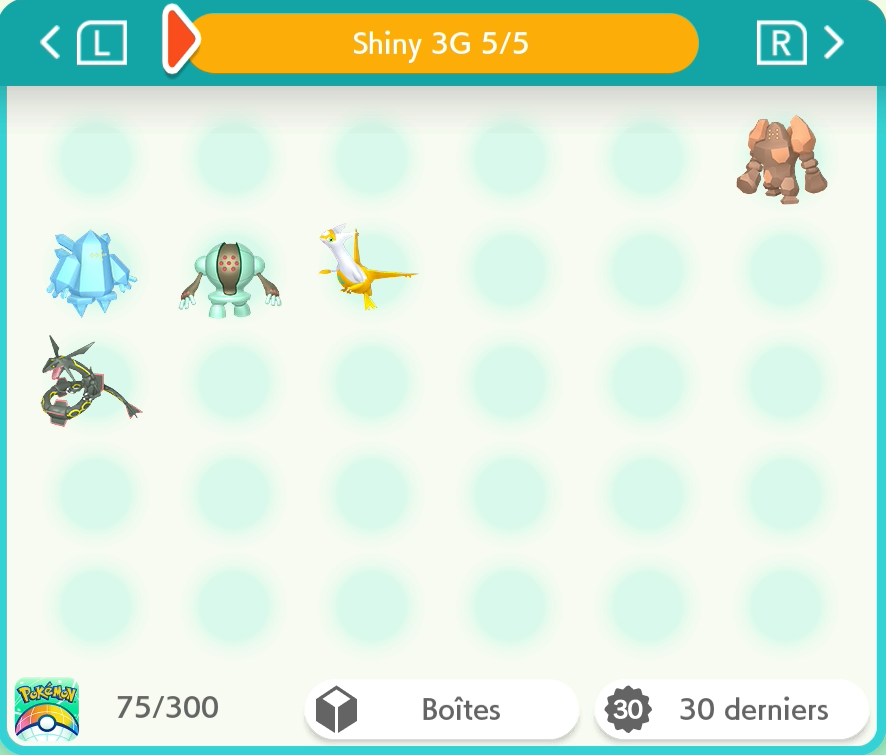
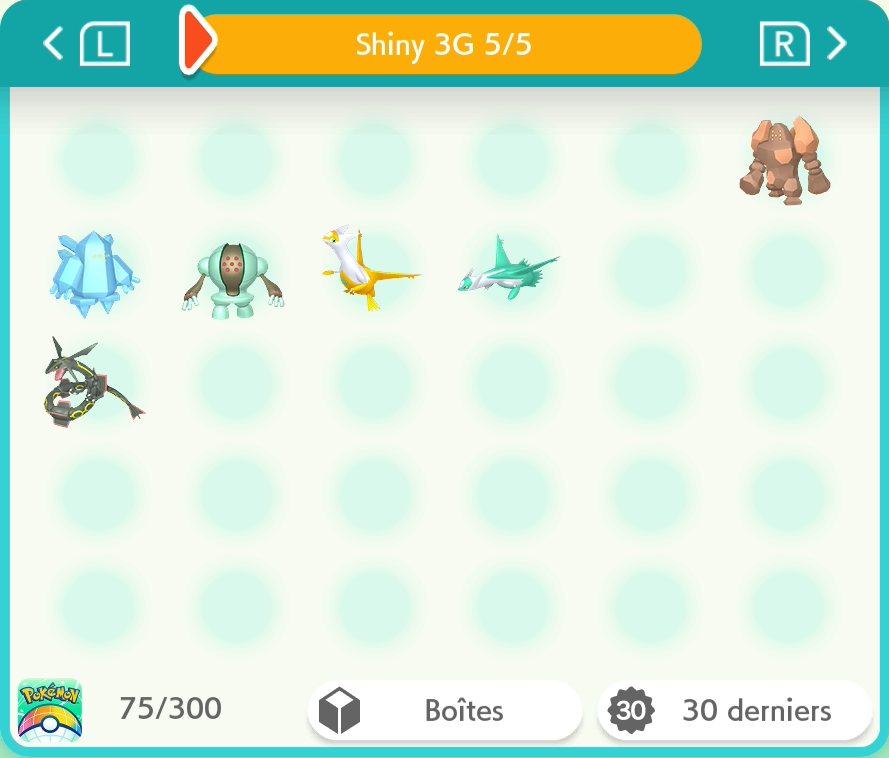
3G : Latios

diff --git a/README.md b/README.md
@@ -2,20 +2,20 @@
 
 Pokémon-Elément-Sh -> <a href="https://www.pokemon-element-sh.fr/profil/karyno21" target="_blank">Karyno21</a>
 
-↓ Dernière Update le 14/10/2026 à 4h49 ↓
-### Dex 1-9G [293/1001] +32
+↓ Dernière Update le 14/10/2026 à 15h57 ↓
+### Dex 1-9G [294/1001] +33
 
 | Gen | Prog | Notes |
 |:--:|:--:|---|
-|1G|48/151|+4 Artikodin, Électhor, Sulfura & Ptéra|
-|2G|38/100|+6 Celebi, Raikou, Entei, Suicune, Lugia & Ho-Oh|
-|3G|26/135|+4 Spinda, Regirock, Regice, Registeel & Latias|
+|1G|48/151|+4 : Artikodin, Électhor, Sulfura & Ptéra|
+|2G|38/100|+6 : Celebi, Raikou, Entei, Suicune, Lugia & Ho-Oh|
+|3G|27/135|+5 : Spinda, Regirock, Regice, Registeel, Latias & Latios|
 |4G|20/107||
-|5G|31/155|+3 Genesect (JP Event), Venipatte & Scobolide|
-|6G|30/71|+8 Amagara, Dragmara, Ptyranidur, Volcanion (HOME), Diancie (JP Event), Lépidonille, Pérégrain & Prismillon (Fantaisie)|
-|7G|20/84|+4 Type:0, Silvallié, Mandrillon & Sovkipou|
-|8G|34/90|+1 Crèmy|
-|9G|46/108|+1 Amassel|
+|5G|31/155|+3 : Genesect (JP Event), Venipatte & Scobolide|
+|6G|30/71|+8 : Amagara, Dragmara, Ptyranidur, Volcanion (HOME), Diancie (JP Event), Lépidonille, Pérégrain & Prismillon (Fantaisie)|
+|7G|20/84|+4 : Type:0, Silvallié, Mandrillon & Sovkipou|
+|8G|34/90|+1 : Crèmy|
+|9G|46/108|+1 : Amassel|
 
 ### Formes Régionales [58/58]
 
@@ -26,7 +26,7 @@ Pokémon-Elément-Sh -> <a href="https://www.pokemon-element-sh.fr/profil/karyno
 |Hisui|17/17|Complété|
 |Paldea|4/4|Complété|
 
-### Total [351/1059] +32
+### Total [352/1059] +33
 
 <details>
   <summary>Bonus - Motif de Prismillon</summary>
